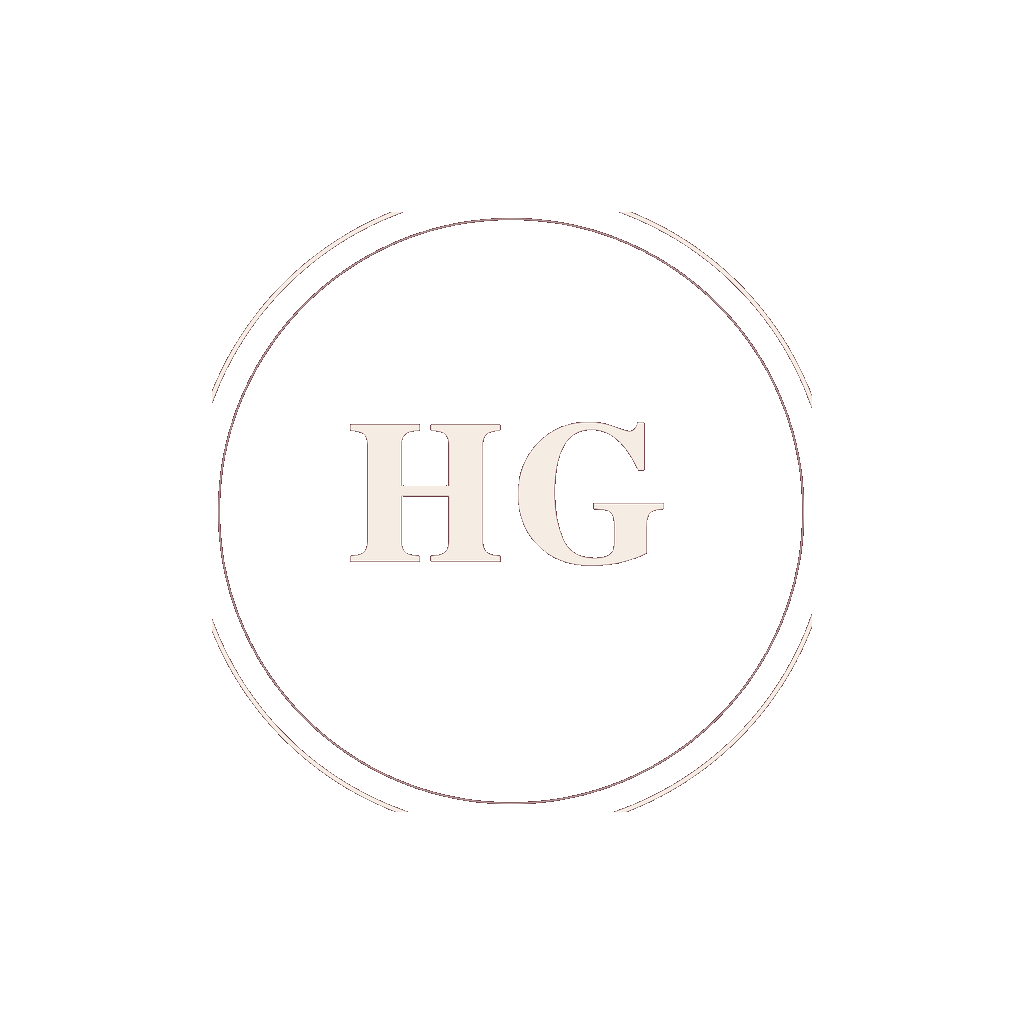
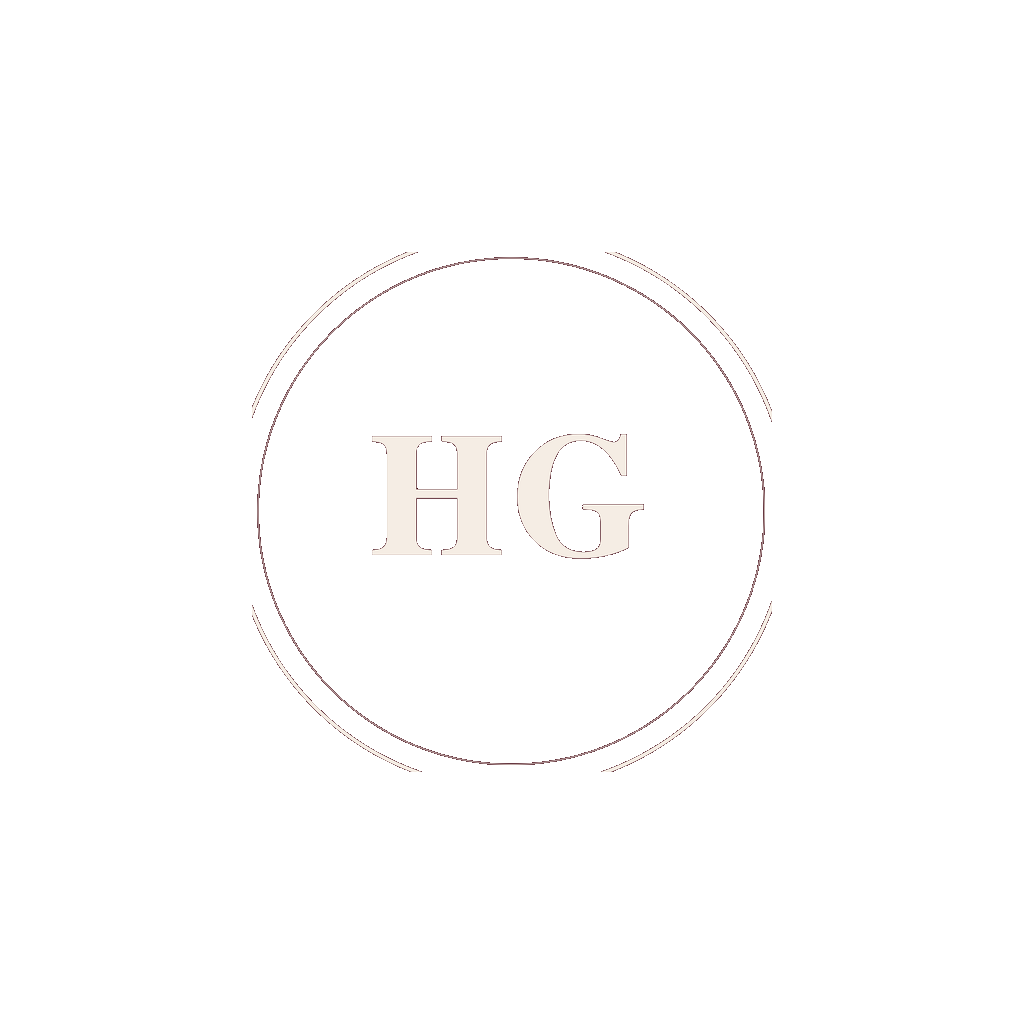
fix(mobile): video del ejercicio se reproduce dentro de la app + ícono con aire
El "Ver video" abría Safari con Linking.openURL; ahora despliega un
VideoView inline y prefiere el archivo descargado sobre la URL
firmada (sirve sin señal y no caduca a media sesión). El ícono baja
al 60% para que la máscara redondeada de iOS no muerda el círculo.

diff --git a/apps/mobile/src/components/ExerciseCapture.tsx b/apps/mobile/src/components/ExerciseCapture.tsx
@@ -1,5 +1,6 @@
-import { useState } from "react";
-import { Linking, Modal, Pressable, ScrollView, StyleSheet, Text, View } from "react-native";
+import { useVideoPlayer, VideoView } from "expo-video";
+import { useMemo, useState } from "react";
+import { Modal, Pressable, ScrollView, StyleSheet, Text, View } from "react-native";
 
 import { Card } from "@/components/Card";
 import { NumberStepper } from "@/components/NumberStepper";
@@ -7,6 +8,7 @@ import { RestTimer } from "@/components/RestTimer";
 import type { ExerciseAlternative, SessionExerciseView, WorkoutSetInput } from "@/lib/api";
 import { colors, fonts, radius, spacing } from "@/lib/theme";
 import { clientIdFor } from "@/lib/training-client-id";
+import { isVideoDownloaded, localVideoFile } from "@/lib/video-downloads";
 
 const WEIGHT_STEP = 2.5;
 
@@ -60,6 +62,14 @@ export function ExerciseCapture({
   isLast: boolean;
 }) {
   const [swapOpen, setSwapOpen] = useState(false);
+  const [videoOpen, setVideoOpen] = useState(false);
+  // El archivo descargado manda sobre la URL firmada: sirve sin señal y no
+  // caduca a media sesión.
+  const videoUri = useMemo(() => {
+    const path = exercise.videoPath;
+    if (path && isVideoDownloaded(path)) return localVideoFile(path).uri;
+    return exercise.videoUrl ?? null;
+  }, [exercise.videoPath, exercise.videoUrl]);
   const [restStartedAt, setRestStartedAt] = useState<number | null>(null);
   const [drafts, setDrafts] = useState<Record<number, { reps: number; weightKg: number }>>(() => {
     const initial: Record<number, { reps: number; weightKg: number }> = {};
@@ -154,17 +164,22 @@ export function ExerciseCapture({
       </View>
 
       {exercise.videoUrl || exercise.videoPath ? (
-        <Pressable
-          onPress={() => {
-            if (exercise.videoUrl) void Linking.openURL(exercise.videoUrl);
-          }}
-          style={styles.videoLink}
-          disabled={!exercise.videoUrl}
-        >
-          <Text style={styles.videoLinkText}>
-            {exercise.videoUrl ? "▶ Ver video" : `▶ ${exercise.videoPath ?? "video"} (sin conexión)`}
-          </Text>
-        </Pressable>
+        <View style={styles.videoBlock}>
+          <Pressable
+            onPress={() => setVideoOpen((open) => !open)}
+            style={styles.videoLink}
+            disabled={!videoUri}
+          >
+            <Text style={styles.videoLinkText}>
+              {videoUri
+                ? videoOpen
+                  ? "▾ Ocultar video"
+                  : "▶ Ver video"
+                : `▶ ${exercise.videoPath ?? "video"} (sin conexión)`}
+            </Text>
+          </Pressable>
+          {videoOpen && videoUri ? <ExerciseVideo uri={videoUri} /> : null}
+        </View>
       ) : (
         <View style={styles.videoMissing}>
           <Text style={styles.videoMissingText}>Este ejercicio todavía no tiene video.</Text>
@@ -308,6 +323,15 @@ function SwapModal({
   );
 }
 
+/** Reproductor dentro de la app: el video nunca sale a Safari. */
+function ExerciseVideo({ uri }: { uri: string }) {
+  const player = useVideoPlayer(uri, (instance) => {
+    instance.play();
+  });
+
+  return <VideoView style={styles.videoView} player={player} nativeControls contentFit="contain" />;
+}
+
 const styles = StyleSheet.create({
   container: { gap: spacing.md },
   backRow: { flexDirection: "row", alignItems: "center" },
@@ -335,6 +359,13 @@ const styles = StyleSheet.create({
   recordText: { fontFamily: fonts.sans, fontSize: 13, color: colors.marfil },
   recordStrong: { fontFamily: fonts.sansSemiBold },
   recordEmpty: { fontFamily: fonts.sans, fontSize: 13, color: colors.paloRosaLight },
+  videoBlock: { gap: spacing.sm },
+  videoView: {
+    width: "100%",
+    aspectRatio: 16 / 9,
+    borderRadius: radius.md,
+    backgroundColor: "#000",
+  },
   videoLink: {
     borderWidth: 1,
     borderColor: colors.cardBorder,
